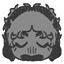
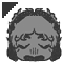
Update cursor

diff --git a/style.css b/style.css
@@ -5,11 +5,11 @@ body {
     font-family:Verdana, Geneva, Tahoma, sans-serif;
     font-size: large;
     color: #773939;
-    cursor: url("media/cursor.png") 32 32, auto;
+    cursor: url("media/cursor.png") 0 0, auto;
 }
 a,
 button {
-    cursor: url("media/icon.png") 32 32, auto;
+    cursor: url("media/cursor-highlight.png") 0 0, auto;
 }
 a {
     text-decoration: none;
